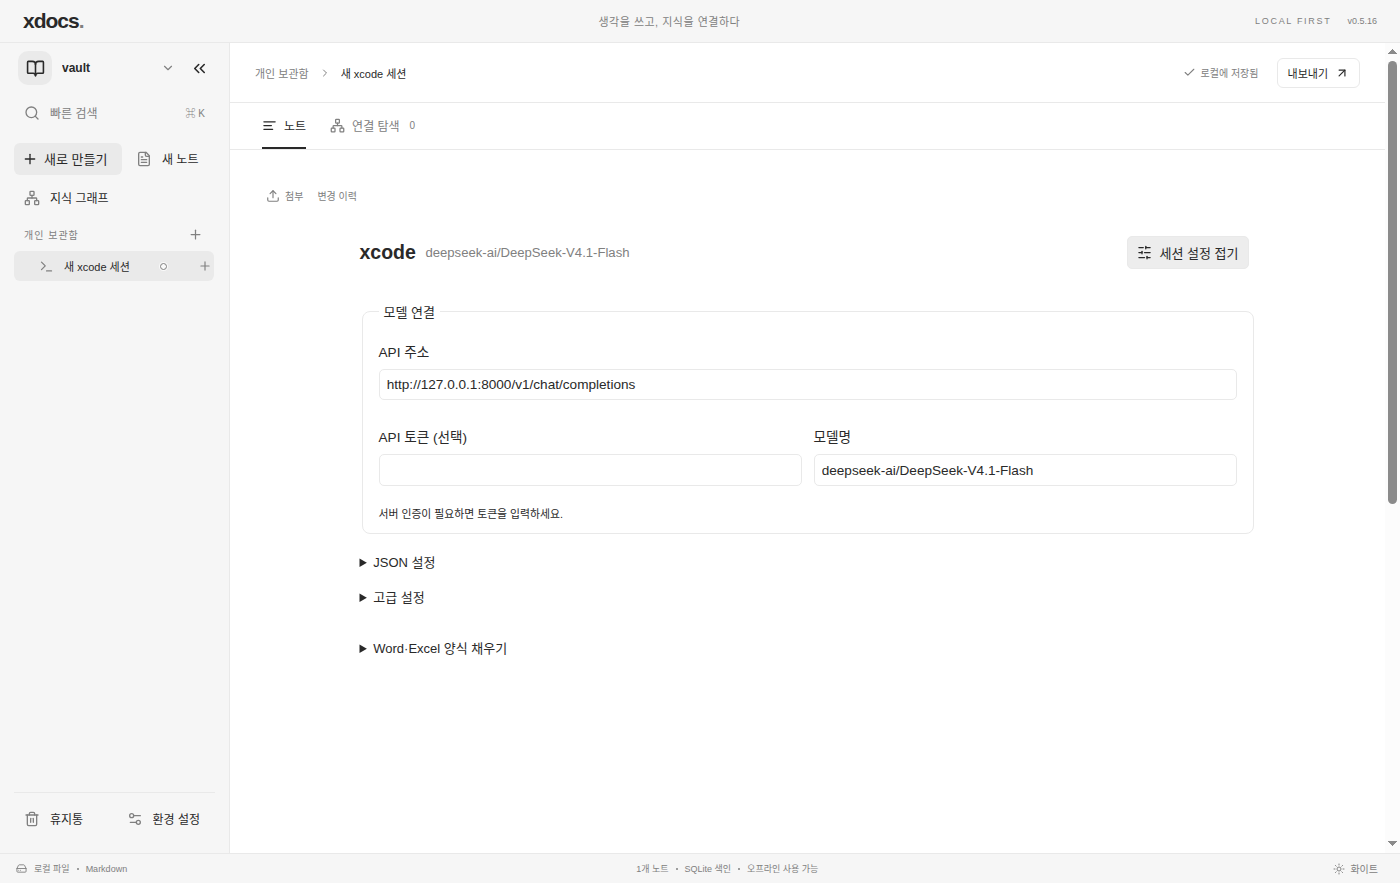
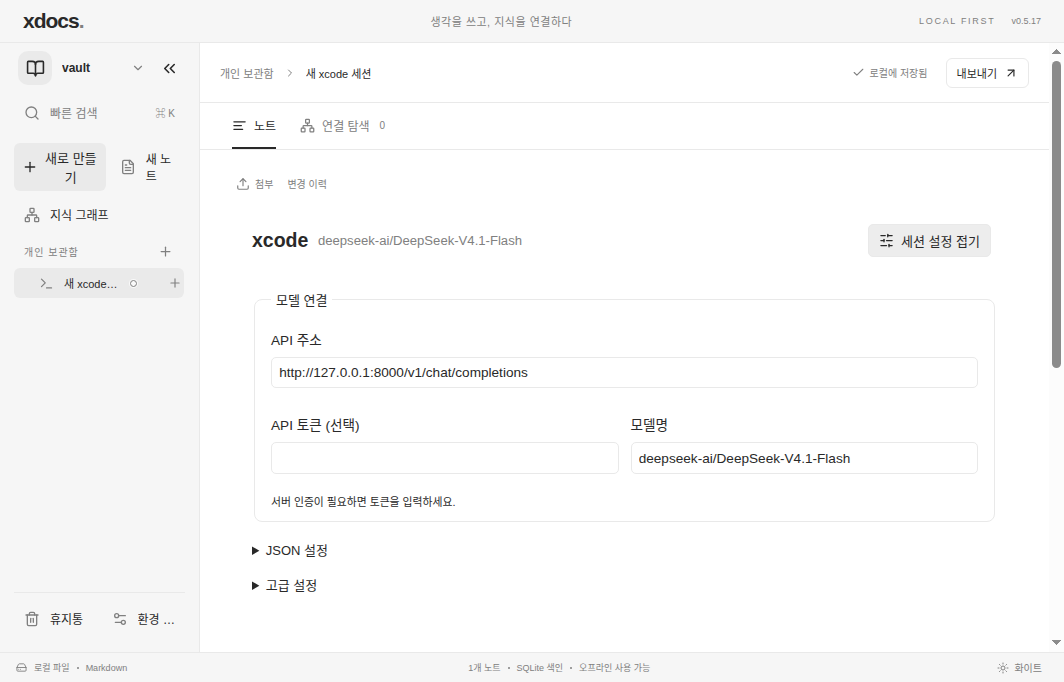
Release xdocs 0.5.17 with contextual Office tools

diff --git a/src/WordSelection.tsx b/src/WordSelection.tsx
@@ -2,10 +2,12 @@ import { useState } from "react";
 import { api } from "./api";
 
 export default function WordSelection({
+  close,
   attach,
   answer,
   disabled,
 }: {
+  close: () => void;
   attach: (name: string, text: string) => void;
   answer: string;
   disabled: boolean;
@@ -30,38 +32,45 @@ export default function WordSelection({
     }
   }
   return (
-    <details className="word-selection">
-      <summary>Word 선택 영역</summary>
+    <section className="word-selection" aria-label="Word 선택 영역">
+      <header>
+        <strong>Word 선택 영역</strong>
+        <button onClick={close} aria-label="Word 선택 영역 닫기">
+          닫기
+        </button>
+      </header>
       <fieldset disabled={working || disabled}>
         <legend>Windows Word 연결</legend>
         <p>
           Word에서 본문을 선택하고 Windows PowerShell로 도우미를 실행하세요.
           VMware에서는 도우미를 양쪽에서 열 수 있는 개인 공유 폴더에 저장하세요.
         </p>
-        <button
-          onClick={() =>
-            void action(async () => {
-              if (await api.wordHelper!())
-                setNotice("도우미를 저장했습니다. Windows에서 실행하세요.");
-            })
-          }
-        >
-          Windows 도우미 저장
-        </button>
-        <button
-          onClick={() =>
-            void action(async () => {
-              const captured = await api.wordCapture!();
-              if (!captured) return;
-              attach(captured.name, captured.text);
-              setSelection(captured);
-              setText("");
-              setNotice("선택한 텍스트를 메시지에 첨부했습니다.");
-            })
-          }
-        >
-          Word 선택 영역 가져오기
-        </button>
+        <div className="word-actions">
+          <button
+            onClick={() =>
+              void action(async () => {
+                if (await api.wordHelper!())
+                  setNotice("도우미를 저장했습니다. Windows에서 실행하세요.");
+              })
+            }
+          >
+            Windows 도우미 저장
+          </button>
+          <button
+            onClick={() =>
+              void action(async () => {
+                const captured = await api.wordCapture!();
+                if (!captured) return;
+                attach(captured.name, captured.text);
+                setSelection(captured);
+                setText("");
+                setNotice("선택한 텍스트를 메시지에 첨부했습니다.");
+              })
+            }
+          >
+            Word 선택 영역 가져오기
+          </button>
+        </div>
         {selection && (
           <>
             <details>
@@ -76,33 +85,35 @@ export default function WordSelection({
                 onChange={(e) => setText(e.target.value)}
               />
             </label>
-            {answer && (
+            <div className="word-actions">
+              {answer && (
+                <button
+                  disabled={answer.length > 50000}
+                  onClick={() => setText(answer)}
+                >
+                  최근 답변 사용
+                </button>
+              )}
               <button
-                disabled={answer.length > 50000}
-                onClick={() => setText(answer)}
+                disabled={!text.trim()}
+                onClick={() =>
+                  void action(async () => {
+                    await api.wordPropose!(selection.handle, text);
+                    setSelection(undefined);
+                    setText("");
+                    setNotice(
+                      "수정안을 보냈습니다. Windows에서 확인 후 Word 문서를 저장하세요.",
+                    );
+                  })
+                }
               >
-                최근 답변 사용
+                Word에 수정안 보내기
               </button>
-            )}
-            <button
-              disabled={!text.trim()}
-              onClick={() =>
-                void action(async () => {
-                  await api.wordPropose!(selection.handle, text);
-                  setSelection(undefined);
-                  setText("");
-                  setNotice(
-                    "수정안을 보냈습니다. Windows에서 확인 후 Word 문서를 저장하세요.",
-                  );
-                })
-              }
-            >
-              Word에 수정안 보내기
-            </button>
+            </div>
           </>
         )}
       </fieldset>
       {notice && <p role="status">{notice}</p>}
-    </details>
+    </section>
   );
 }

diff --git a/src/Xcode.tsx b/src/Xcode.tsx
@@ -144,6 +144,10 @@ export default function Xcode({
       files: typeof fn === "function" ? fn(run.snapshot().files) : fn,
     });
   const setError = (error: string) => run.patch({ error });
+  const formHarness = ["Word 양식 작성안", "Excel 양식 입력안"].includes(s.harness.name);
+  const [documentPanel, setDocumentPanel] = useState<"form" | "word" | null>(formHarness ? "form" : null);
+  useEffect(() => setDocumentPanel(formHarness ? "form" : null), [formHarness, s.harness.name]);
+  const attachmentMenu = useRef<HTMLDivElement>(null);
   const attachmentPicker = useRef<HTMLInputElement>(null);
   const [showSettings, setShowSettings] = useState(
     () => localStorage.getItem("xdocs.xcode.settings") === "shown",
@@ -1200,7 +1204,12 @@ export default function Xcode({
           </details>
         </details>
       </div>
-<OfficeForm disabled={busy||readonly} answer={s.turns.at(-1)?.answers.at(-1)?.text||""} prepare={text=>setPrompt([prompt,text].filter(Boolean).join("\n\n"))}/>
+      <div hidden={documentPanel !== "form"}><OfficeForm close={()=>setDocumentPanel(null)} disabled={busy||readonly} answer={s.turns.at(-1)?.answers.at(-1)?.text||""} prepare={text=>setPrompt([prompt,text].filter(Boolean).join("\n\n"))}/></div>
+      {local && api.wordCapture && <div hidden={documentPanel !== "word"}>
+        <WordSelection close={()=>setDocumentPanel(null)} disabled={busy || readonly}
+          answer={s.turns.at(-1)?.answers.at(-1)?.text || ""}
+          attach={(name,text)=>setFiles(previous=>[...previous,{name,text}])}/>
+      </div>}
       <div className="chat-workbench">
         <ChatTimeline
           turns={s.turns}
@@ -1233,18 +1242,32 @@ export default function Xcode({
                 void send();
             }}
           />
-          {local && api.wordCapture && <WordSelection disabled={busy || readonly} answer={s.turns.at(-1)?.answers.at(-1)?.text || ""}
-            attach={(name,text) => setFiles(previous => [...previous,{name,text}])}/>}
           <div className="chat-toolbar">
             <button
               className="chat-attach"
               aria-label="파일 첨부"
-              title="파일 첨부"
+              title="첨부 옵션"
               disabled={busy || readonly || importing}
-              onClick={() => attachmentPicker.current?.click()}
+              popoverTarget="xcode-attachment-menu"
             >
               <Paperclip size={16} />
             </button>
+            <div id="xcode-attachment-menu" popover="auto" ref={attachmentMenu} className="chat-attachment-menu">
+              <button disabled={busy || readonly || importing} onClick={() => {
+                attachmentMenu.current?.hidePopover();
+                attachmentPicker.current?.click();
+              }}>파일 첨부</button>
+              <button disabled={busy || readonly} onClick={() => {
+                attachmentMenu.current?.hidePopover();
+                setDocumentPanel("form");
+                requestAnimationFrame(() => document.querySelector<HTMLInputElement>(".office-form input[type=file]")?.focus());
+              }}>Word·Excel 양식 채우기</button>
+              {local && api.wordCapture && <button disabled={busy || readonly} onClick={()=>{
+                attachmentMenu.current?.hidePopover();
+                setDocumentPanel("word");
+                requestAnimationFrame(()=>document.querySelector<HTMLButtonElement>(".word-selection fieldset button")?.focus());
+              }}>Word 선택 영역</button>}
+            </div>
             <input
               ref={attachmentPicker}
               hidden

diff --git a/src/styles.css b/src/styles.css
@@ -2980,7 +2980,10 @@ textarea {
 .chat-basic-settings .token-storage { grid-column:1/-1; display:flex; flex-wrap:wrap; align-items:center; gap:8px; }
 
 .word-selection {margin:4px 0; font-size:13px;}
-.word-selection fieldset {display:flex; flex-wrap:wrap; align-items:start; gap:8px; min-width:0;}
+.main .word-selection fieldset {display:grid; grid-template-columns:minmax(0,1fr); align-items:start; gap:12px; min-width:0;}
+.word-selection > header {display:flex;align-items:center;justify-content:space-between;gap:8px;}
+.word-selection .word-actions {display:flex;flex-wrap:wrap;align-items:center;gap:8px;}
+.main .word-selection .word-actions button {margin:0;}
 .word-selection fieldset :is(p,label,details) {width:100%; margin:0;}
 .word-selection label {display:grid; gap:6px;}
 .word-selection pre {max-height:12rem; overflow:auto; white-space:pre-wrap;}
@@ -3019,3 +3022,13 @@ textarea {
 .main .office-form .form-actions button {margin:0;}
 .main .office-form fieldset > button {justify-self:start;}
 .main .xcode > details.office-form {margin:0;padding:0;border:0;}
+
+.chat-attach {anchor-name:--xcode-attach;}
+.chat-attachment-menu {
+  position:fixed; position-anchor:--xcode-attach; inset:auto;
+  left:anchor(left); bottom:anchor(top); position-try-fallbacks:flip-block,flip-inline;
+  margin:0 0 4px; padding:4px; border:1px solid var(--line); border-radius:7px;
+  background:var(--surface); color:var(--ink);
+}
+.xcode .chat-attachment-menu button {display:block;width:100%;margin:0;padding:8px;text-align:start;border:0;}
+.office-form > header {display:flex;align-items:center;justify-content:space-between;gap:8px;}

diff --git a/src/OfficeForm.tsx b/src/OfficeForm.tsx
@@ -7,7 +7,9 @@ export default function OfficeForm({
   disabled,
   answer,
   prepare,
+  close,
 }: {
+  close: () => void;
   disabled: boolean;
   answer: string;
   prepare: (text: string) => void;
@@ -100,8 +102,8 @@ export default function OfficeForm({
     }
   }
   return (
-    <details className="office-form">
-      <summary>Word·Excel 양식 채우기</summary>
+    <section className="office-form" aria-label="Word·Excel 양식 채우기">
+      <header><strong>Word·Excel 양식 채우기</strong><button onClick={close} aria-label="양식 패널 닫기">닫기</button></header>
       <fieldset disabled={disabled || working}>
         <label>
           원본 양식
@@ -179,6 +181,6 @@ export default function OfficeForm({
         )}
       </fieldset>
       {notice && <p role="status">{notice}</p>}
-    </details>
+    </section>
   );
 }

diff --git a/docs/xcode.md b/docs/xcode.md
@@ -95,7 +95,7 @@ Builder의 **xcode 단계 지침 내보내기**로 저장한 JSON은 xcode의 **
 
 ### 양식에 근거 자료 반영하기
 
-채팅의 **Word·Excel 양식 채우기**에서 원본을 선택하고 원자료(CSV, 회의록, 업무 문서 등)를 채팅에 첨부합니다. **작성 요청을 입력창에 추가**를 누른 뒤 사용자 지시를 함께 전송합니다. 답변이 도착하면 **최근 답변으로 채우기**로 근거와 값을 검토하고 **작성본 사본 저장**을 선택합니다. 파일을 다시 열어 셀 값과 수식을 확인할 수 있습니다.
+채팅 입력창의 **클립 → Word·Excel 양식 채우기**에서 원본을 선택하고 원자료(CSV, 회의록, 업무 문서 등)를 채팅에 첨부합니다. **작성 요청을 입력창에 추가**를 누른 뒤 사용자 지시를 함께 전송합니다. 답변이 도착하면 **최근 답변으로 채우기**로 근거와 값을 검토하고 **작성본 사본 저장**을 선택합니다. Word 또는 Excel 양식 하네스를 적용하면 패널이 자동으로 열립니다. **닫기**로 숨긴 후에도 같은 페이지에서는 클립 메뉴로 다시 열어 입력을 이어갈 수 있습니다.
 
 기본 Word 양식은 본문·머리말·꼬리말의 `{{ 필드명 }}` 및 항목명 오른쪽의 빈 표 칸을 지원합니다. Excel은 표시되는 시트의 자리표시자와 파일에 존재하는 빈 셀을 사용합니다. 빈 셀이 파일에 저장되도록 입력란에 서식을 지정하세요. 수식, 보호된 시트 및 병합 영역의 보조 셀은 입력 대상에서 제외합니다.
 

diff --git a/README.md b/README.md
@@ -4,7 +4,7 @@
 
 A local-first desktop workspace for linked notes, spreadsheets and infrastructure diagrams. Keep Markdown files in your own folder and search them through a SQLite index. You can work offline without an account.
 
-[Download the v0.5.16 development prerelease](https://github.com/uknowpro/xdocs/releases/tag/v0.5.16) for Ubuntu, macOS or Windows. Installers are unsigned and the macOS build is unnotarized.
+[Download the v0.5.17 development prerelease](https://github.com/uknowpro/xdocs/releases/tag/v0.5.17) for Ubuntu, macOS or Windows. Installers are unsigned and the macOS build is unnotarized.
 
 ![Kubernetes upgrade report generated by the bundled kubewiser engine](docs/images/analyzer-upgrade.png)
 

diff --git a/CHANGELOG.md b/CHANGELOG.md
@@ -1,5 +1,10 @@
 # Changelog
 
+## 0.5.17
+
+- Open Word selection and Office forms from the attachment menu. Applying a Word or Excel form harness opens the form automatically.
+- Group Word capture and revision actions beneath their related controls.
+
 ## 0.5.16
 
 - Review field values and sources before exporting copies of Word and Excel forms. Advanced Word templates can use an optional local python-docx-template environment installed with user consent.
